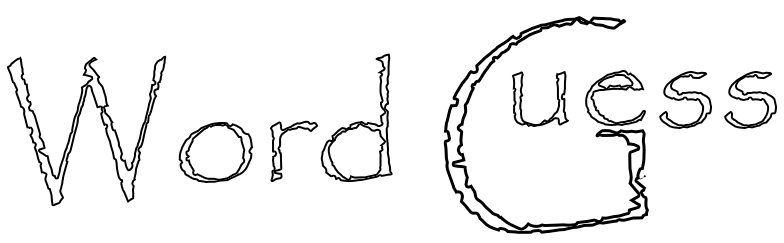
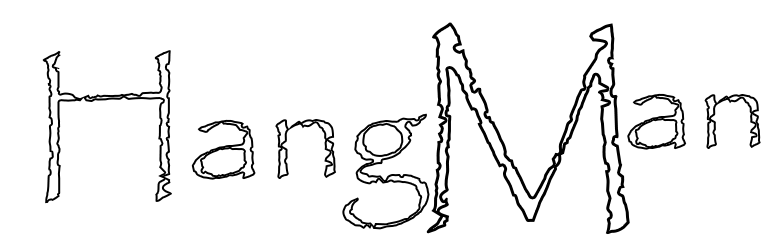
program flow and cover page complete

Changed region(s): [[0.0, 0.0576, 1.0, 0.9794], [0.8571, 0.2881, 0.9184, 0.3457]]

diff --git a/assets/javascript/game.js b/assets/javascript/game.js
@@ -59,6 +59,15 @@ let dataController = (() => {
     }  
 })();
 
+
+/* ===================================================================================
+=======================================================================================
+=======================================================================================
+====================================================================================== */
+
+
+
+
    
 //let wordArray = ["pompeii", "hippocrates", "persephone", "hannibal"],
 /* INTERNAL CALL INSTANT & MAINCONTROLLER
@@ -88,7 +97,7 @@ let UIcontroller = (() => {
             
             setTimeout(() => {
                 document.querySelector(`.letter-pick`).innerHTML = "_";
-            }, 3500);
+            }, 2500);
         },
         printHint: function(newHint) {
             console.log(newHint) 
@@ -100,10 +109,19 @@ let UIcontroller = (() => {
             
             setTimeout(() => {
                 document.getElementById(`message`).classList.add(`log`);
-            }, 3500);
+            }, 2500);
         }
     }
 })();
+
+
+
+
+
+/* ===================================================================================
+=======================================================================================
+=======================================================================================
+====================================================================================== */
 
 
 let mainController = ((dataCon, UIcon) => {
@@ -116,7 +134,7 @@ let mainController = ((dataCon, UIcon) => {
         //scroll
         scroll: ["","",""],
         //score list
-        scores: [0, 0],
+        scores: [null, null],
         //lower center
         center: ["","",""],
         //hint
@@ -128,8 +146,7 @@ let mainController = ((dataCon, UIcon) => {
         document.addEventListener(`keyup`, (event) => {
             let x          = event.which || event.key,
                 inputValue = String.fromCharCode(x);
-            
-            evaluateInput(inputValue);
+            regulator(inputValue);
         });
 
         document.querySelector(`.reset-hint`).addEventListener(`click`, () => {
@@ -178,6 +195,7 @@ let mainController = ((dataCon, UIcon) => {
         UIcon.printHint(elementValues.hint);
     }
     let evaluateInput = (inputValue) => {
+        console.log(inputValue);
         let constructWord = elementValues.scroll[0],
             letterSet     = elementValues.scroll[1],
             lettersUsed   = elementValues.scroll[2],
@@ -239,7 +257,7 @@ let mainController = ((dataCon, UIcon) => {
         
         setTimeout(() => {
             UIcon.updateScroll(elementValues.scroll);
-        }, 2000);
+        }, 1000);
     }
 
     let setScores = (scoreCode) => {
@@ -252,27 +270,57 @@ let mainController = ((dataCon, UIcon) => {
             switch (scoreCode) {
                 case 0:
                     elementValues.scores = [0, 9];
+                    UIcon.displayScores(elementValues.scores);
                     break;
 
                 case 1:
                     remaining--;
+                    elementValues.scores = [word, remaining];
+                    UIcon.displayScores(elementValues.scores);
                     break;
 
                 case 2:
                     word++;
-                    mainController.initialize();
+                    remaining = 9;
+                    elementValues.scores = [word, remaining];
+                    UIcon.displayScores(elementValues.scores);
+                    setTimeout(() => {
+                        mainController.initialize();
+                    }, 1000); 
                     break;
 
                 case 3:
                     remaining = 9;
-                    mainController.initialize();
-                    break;
+                    elementValues.scores = [word, remaining];
+                    UIcon.displayScores(elementValues.scores); 
+                    setTimeout(() => {
+                        mainController.initialize();
+                    }, 1000);
+                    break;  
             }
-            UIcon.displayScores(elementValues.scores);
         }, 2000);
-        
-        elementValues.scores = [word, remaining];
     }
+
+    let regulator = debounce(function(inputValue) {
+        evaluateInput(inputValue);
+    }, 250)
+
+    function debounce(func, wait, immediate) {
+        var timeout;
+        return function () {
+            var context = this, args = arguments;
+            var later = function () {
+                timeout = null;
+                if (!immediate) func.apply(context, args);
+            };
+            var callNow = immediate && !timeout;
+            clearTimeout(timeout);
+            timeout = setTimeout(later, wait);
+            if (callNow) func.apply(context, args);
+        };
+    };
+
+    
 
     return {
         initialize: function (resetCode) {
@@ -289,7 +337,24 @@ let mainController = ((dataCon, UIcon) => {
     }
 })(dataController, UIcontroller);
 
-mainController.initialize(0);
+
+window.addEventListener(`keyup`, () => {
+    let screenDOM = document.querySelector(`.starter-cover`);
+    screenDOM.style.animation = `1.5s fadeout .5s forwards`;
+    setTimeout(() => {    
+        screenDOM.style.display = `none`;
+        mainController.initialize(0);
+    }, 1000);
+}, { once: true });
+
+
+
+
+
+
+
+
+
 
 /* ACCESS
     testData["pompeii"].question

diff --git a/assets/css/style.css b/assets/css/style.css
@@ -29,6 +29,40 @@ body {
     position: absolute;
     width: 47%;
     transform: translateX(27vw);
+    z-index: 10;
+}
+.cover-img {
+    position: absolute;
+    width: 100%;
+    height: 110%;
+    top: 0;
+    left: 0;
+}
+h3 {
+    font-family: 'Asap', sans-serif;
+    font-size: 8rem;
+    position: absolute;
+    z-index: 9;
+    transform: translate(22vw,-63vh);
+    opacity: .2;
+}
+@keyframes fadeout {
+    20% {
+        opacity: .8;
+    }
+    40% {
+        opacity: .6;
+    }
+    60% {
+        opacity: .4;
+    }
+    80% {
+        opacity: .2;
+    }
+    
+    100% {
+        opacity: .01; 
+    }
 }
 
 

diff --git a/index.html b/index.html
@@ -65,6 +65,10 @@
                 </aside>
             </div>
         </section>
+        <section class="starter-cover">
+            <h3>Press any key to play</h3>
+            <img src="assets/images/cover.png" alt="cover photo" class="cover-img">
+        </section>
         <script type='text/javascript' src='assets/javascript/game.js'></script>
     </body>
 </html>
